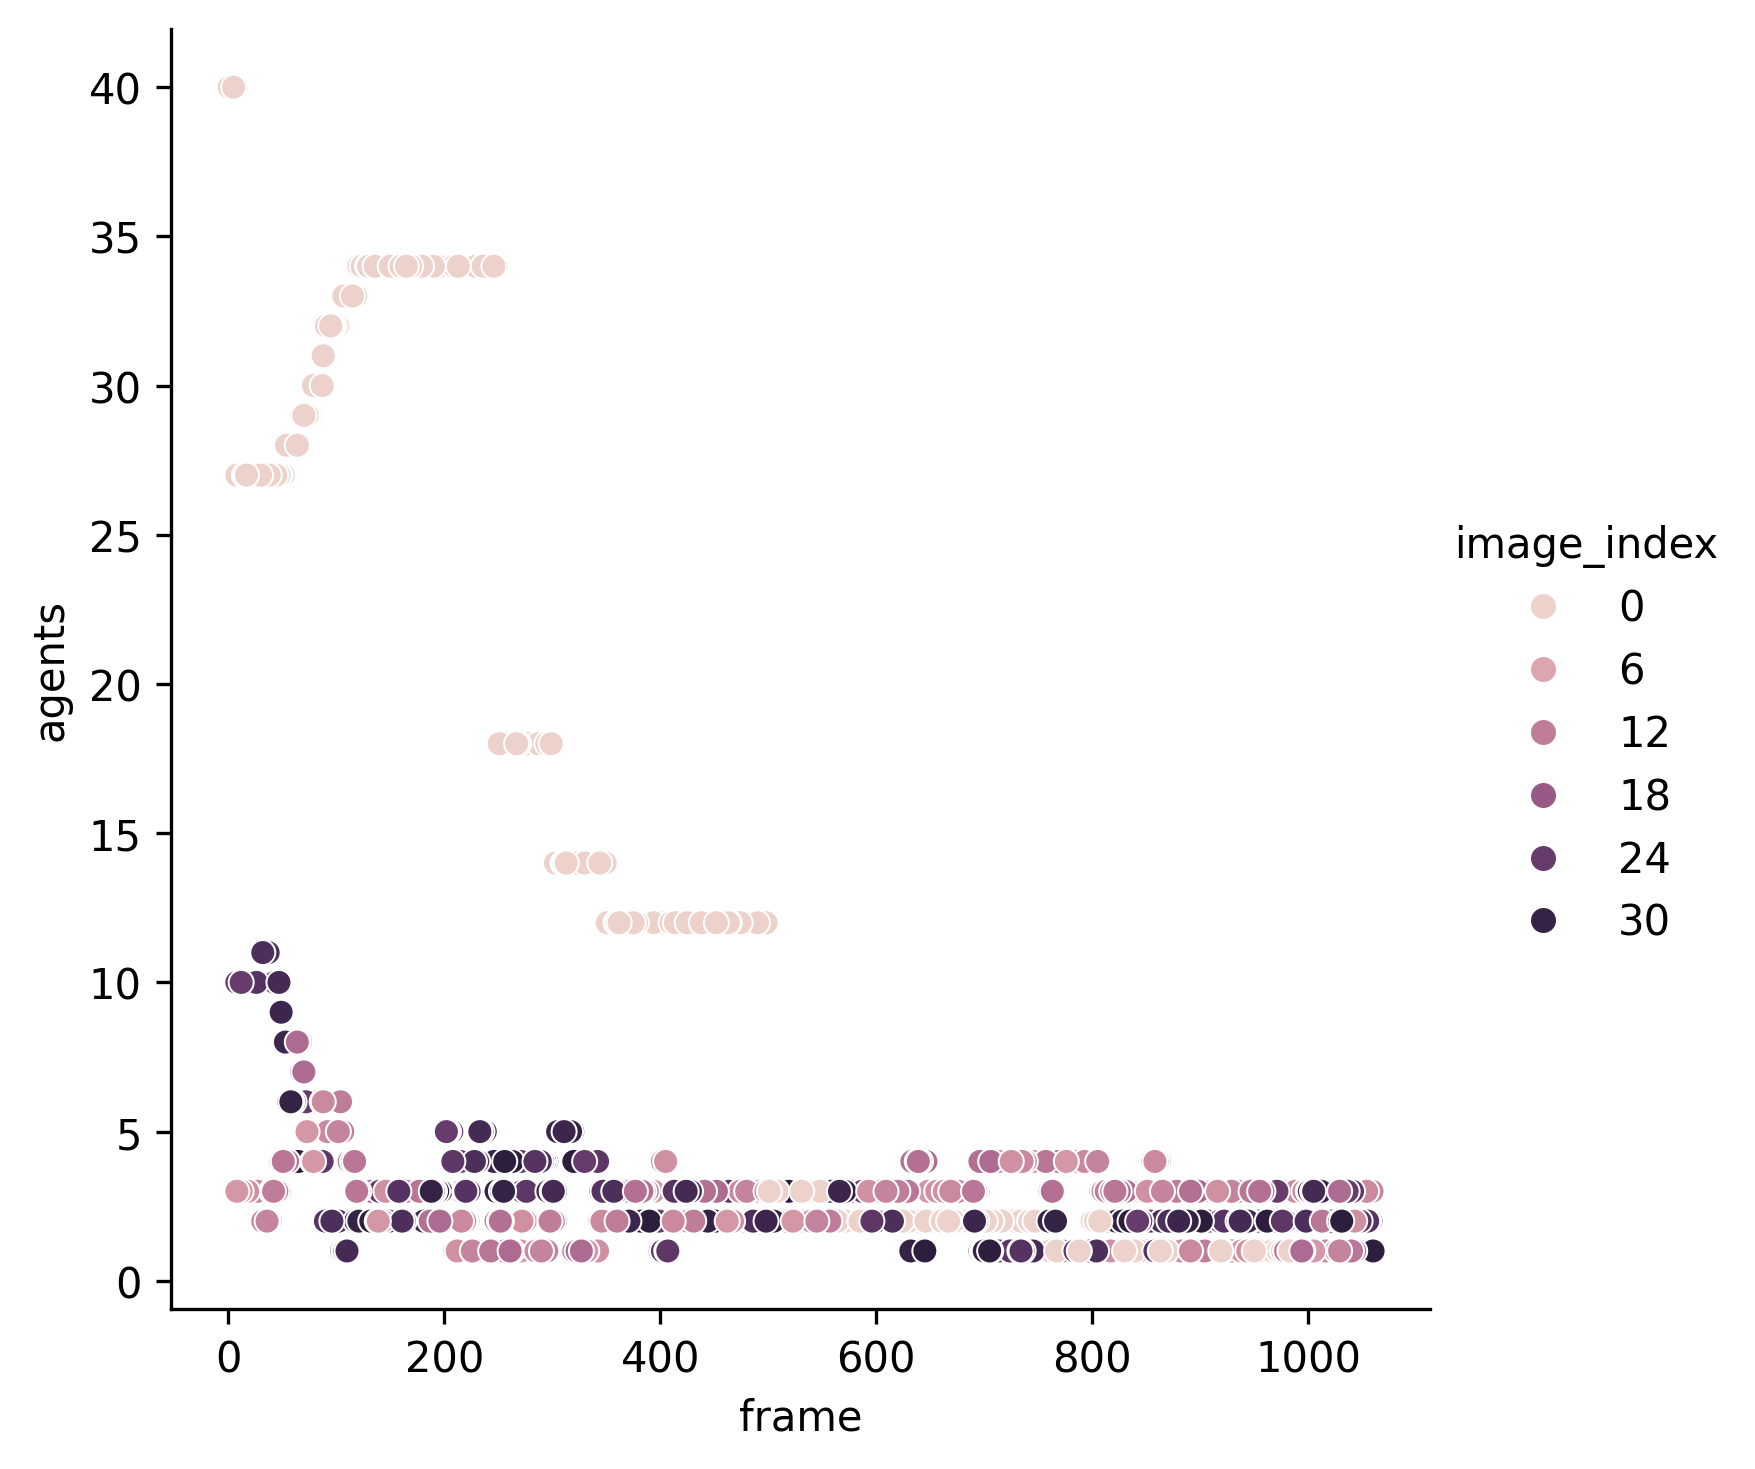
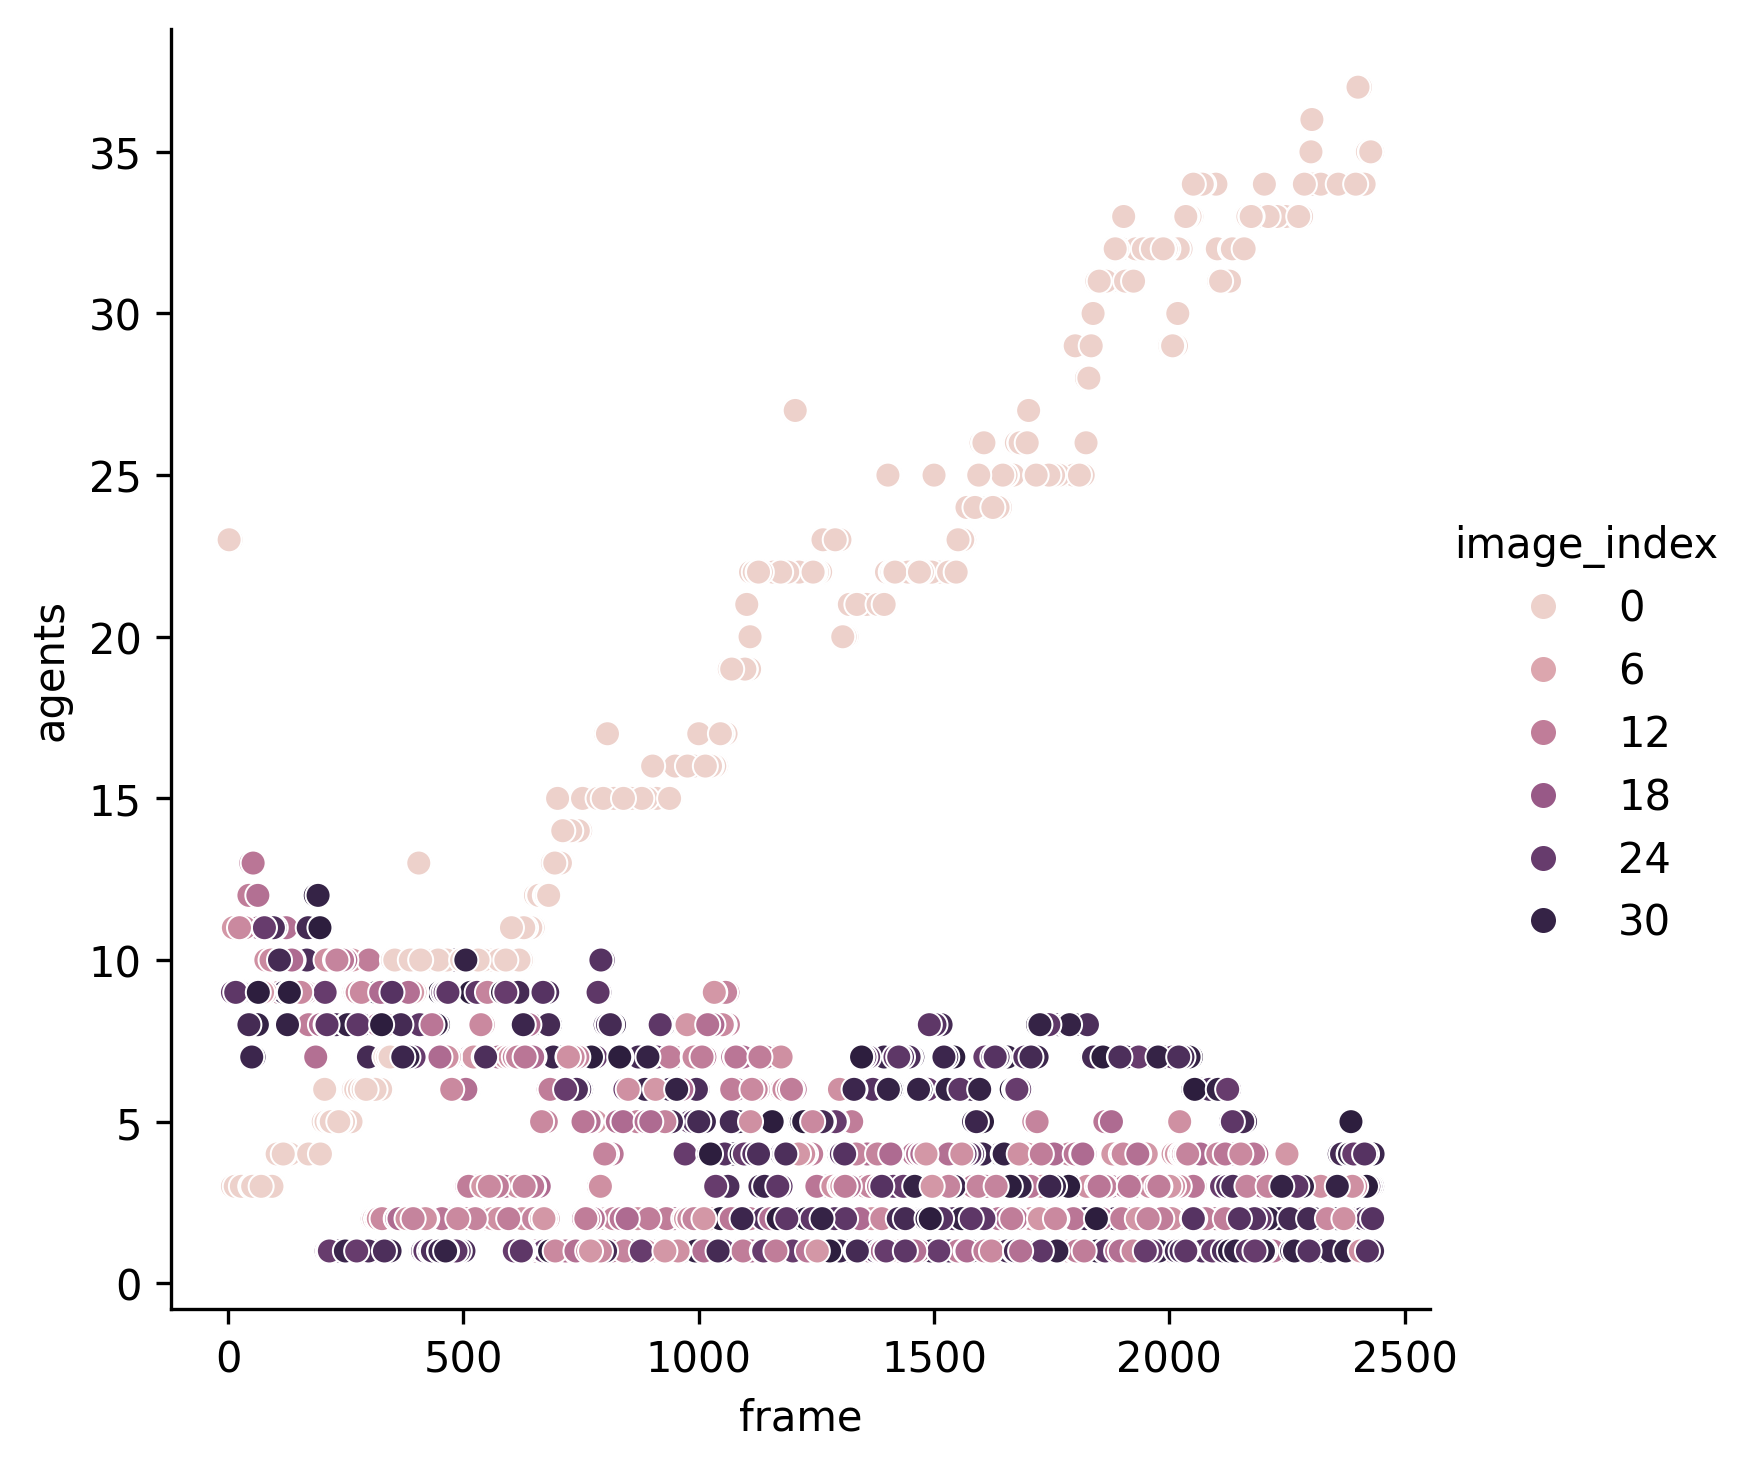
foxes anim

diff --git a/Assignment_2/Competition_modelling.py b/Assignment_2/Competition_modelling.py
@@ -65,6 +65,7 @@ class CompetitionConfig(Config):
 
 class Foxes(Agent):
     config: CompetitionConfig
+    animation_frames: int = 6
 
     def __init__(self, images, simulation, pos=None, move=None):
         super().__init__(images, simulation, pos, move)
@@ -73,7 +74,9 @@ class Foxes(Agent):
             self.move = Vector2(self.config.movement_speed, 0).rotate(angle)
 
         self.state = 'wandering'
-        self.health = 5
+        self.health = 10
+
+        self.frame = 0
 
         self.reproduction_flag = False
         self.eat_flag = False
@@ -90,6 +93,42 @@ class Foxes(Agent):
         self.reproduction()
 
         #self.save_data("population", Foxes)
+
+    # def animation(self, current_pos, next_pos):
+
+    #     dx = current_pos.x - next_pos.x
+    #     dy = current_pos.y - next_pos.y
+
+    #     # Determine the direction of movement
+
+    #     # Moving left
+    #     if dx < 0:
+            
+    #         start_frame = 0
+        
+    #     # Moving right
+    #     elif dx > 0:
+            
+    #         start_frame = 2
+
+    #     # # Moving down
+    #     # if dy < 0:
+            
+    #     #     start_frame = 8
+
+    #     # # Moving up
+    #     # elif dy > 0:
+            
+    #     #     start_frame = 24
+
+    #     # Every 8 time steps, update the frame 
+    #     if CompetitionSimulation.global_delta_time % 8 == 0:
+    #         self.change_image(start_frame + self.frame)
+    #         self.frame += 1
+
+    #     # Reset frame animation loop 
+    #     if self.frame == 5:
+    #         self.frame = 0
 
 
 
@@ -146,6 +185,7 @@ class Foxes(Agent):
         self.move = self.move.normalize() * self.config.movement_speed_f
         next_step = self.pos + self.move * self.config.delta_time
         self.obstacle_avoidance(next_step)
+        #self.animation(self.pos,next_step)
         self.pos += self.move * self.config.delta_time
     
     def obstacle_avoidance(self, next_step):
@@ -166,7 +206,7 @@ class Foxes(Agent):
 class Rabbits(Agent):
     config: CompetitionConfig
     animation_frames: int = 8
-    p_reproduction: float = 0.05
+    p_reproduction: float = 0.09
 
     time_step_d: int = 100
 
@@ -295,6 +335,7 @@ class CompetitionSimulation(Simulation):
         CompetitionSimulation.global_delta_time += 1
 
         self.save_population_data()
+        
 
         super().before_update()
 
@@ -309,6 +350,7 @@ class CompetitionSimulation(Simulation):
         fox_count = sum(1 for agent in self._agents if isinstance(agent, Foxes) and agent.alive)
         self.rabbit_population.append(rabbit_count)
         self.fox_population.append(fox_count)
+        print(self.fox_population)
 
 
 n_rabbits = 20
@@ -359,7 +401,16 @@ df = (CompetitionSimulation(
 "Assignment_2/sprite_frames/sprite_b (5).png",
 "Assignment_2/sprite_frames/sprite_b (6).png",
 "Assignment_2/sprite_frames/sprite_b (7).png",
-    ]).batch_spawn_agents(n_foxes, Foxes, images=["Assignment_0/images/triangle@50px.png"]).run()
+    ]).batch_spawn_agents(n_foxes, Foxes, 
+                          images=
+                          ["Assignment_2/sprite_frames_fox/fox_sprite.png",
+                           "Assignment_2/sprite_frames_fox/fox_sprite (1).png",
+                           "Assignment_2/sprite_frames_fox/fox_sprite (2).png",
+                           "Assignment_2/sprite_frames_fox/fox_sprite (3).png",
+                           "Assignment_2/sprite_frames_fox/fox_sprite (4).png",
+                           "Assignment_2/sprite_frames_fox/fox_sprite (5).png"
+                           
+                           ]).run()
 
 .snapshots.group_by("frame", "image_index")
 .agg(pl.count("id").alias("agents"))
